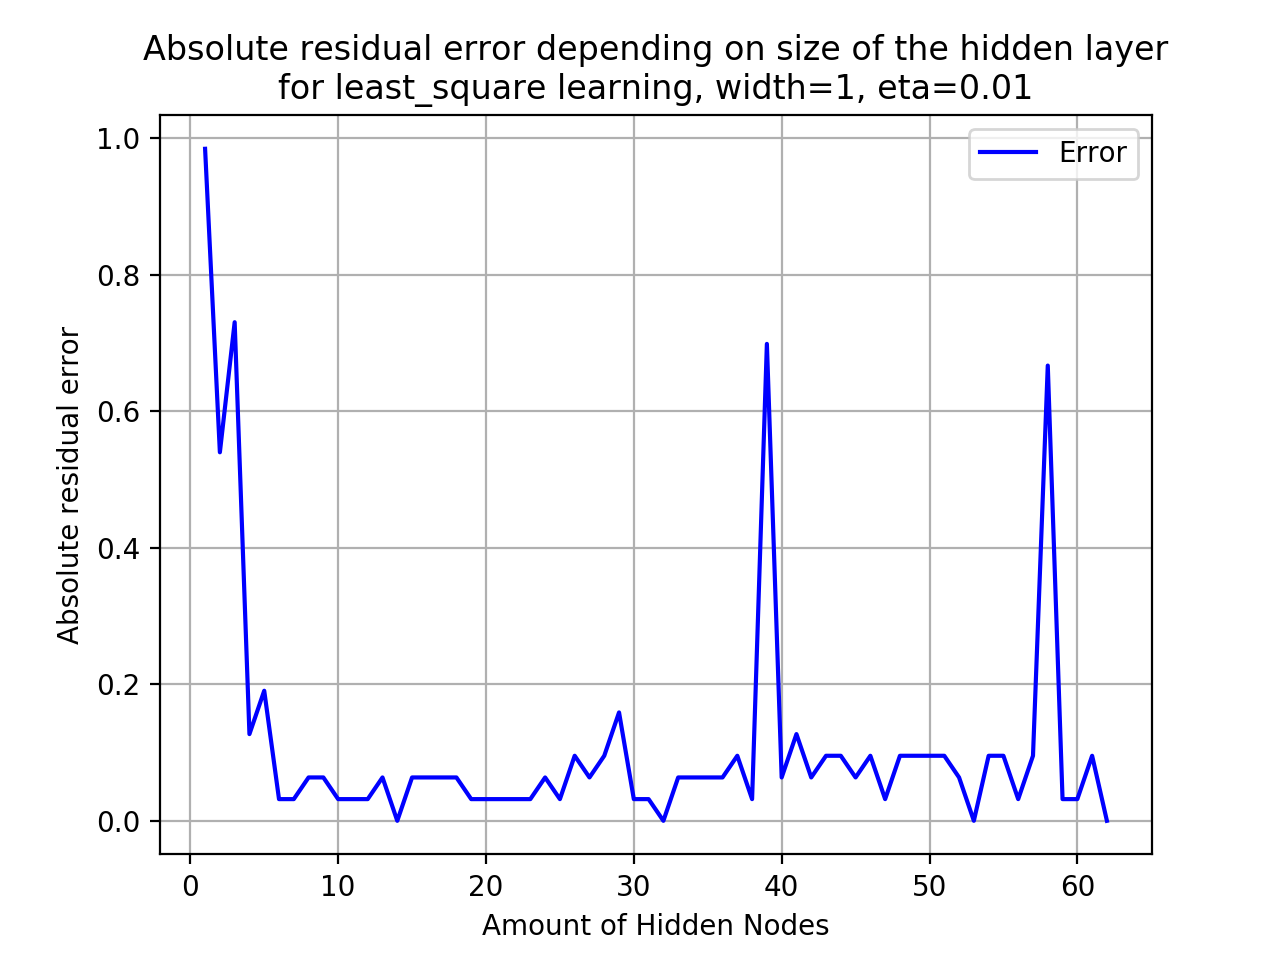
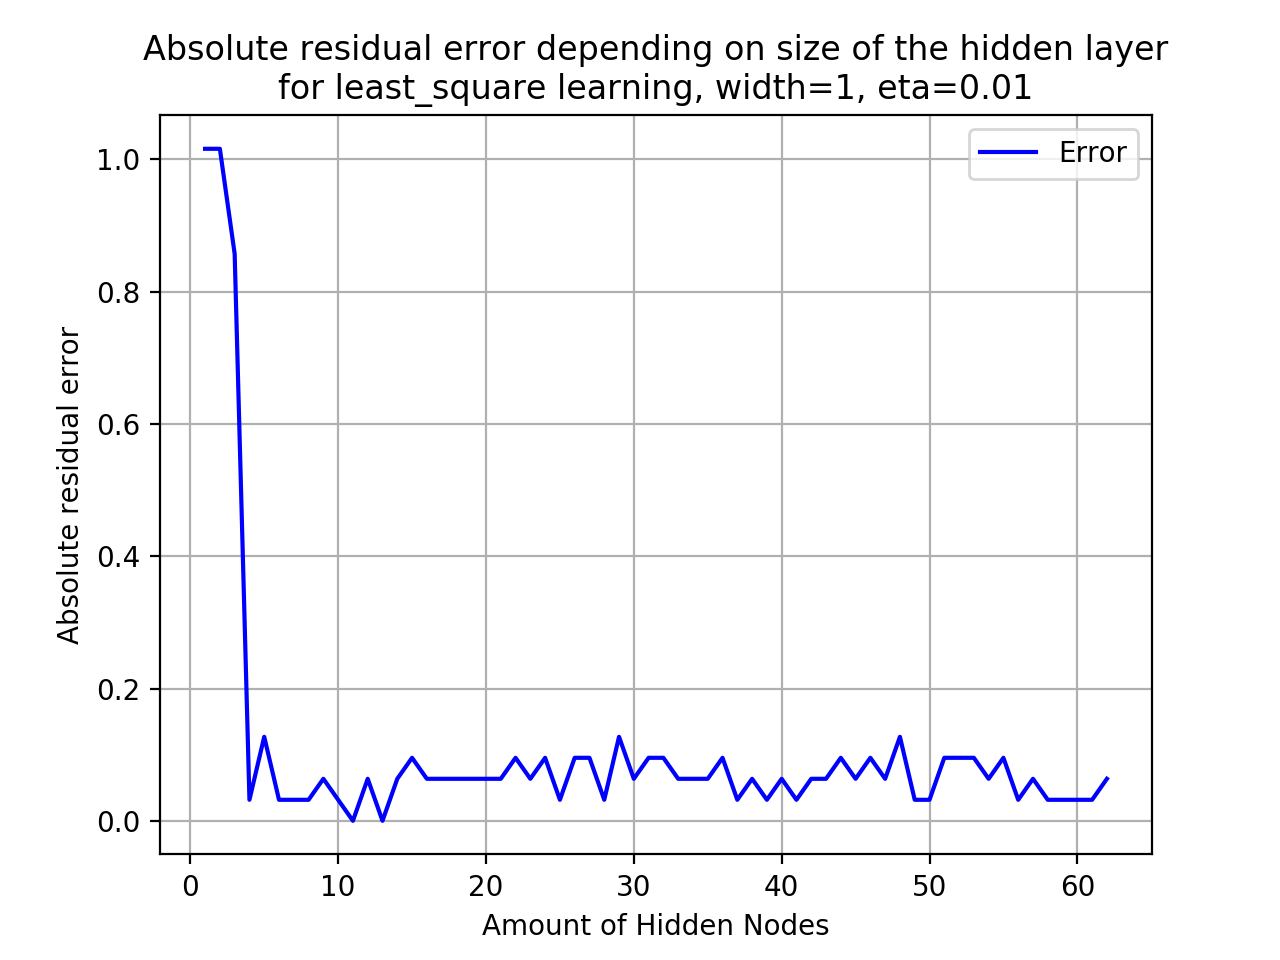
updated images

diff --git a/Lab2/RBF.py b/Lab2/RBF.py
@@ -194,7 +194,6 @@ def task3_2(use_square=False, use_delta=False, use_noise=False, eta=0.01, n_epoc
     return abs_mean_error
 #------------Task calls--------------#
 #task3_1(True)
-#plot_function()
 #task3_1(use_square=False)
-task3_2(use_square=True, use_delta=False, use_noise=False, eta=0.01, n_epochs=5000)
+task3_2(use_square=False, use_delta=True, use_noise=True, eta=0.01, n_epochs=5000)
 #----------------------------------------#
